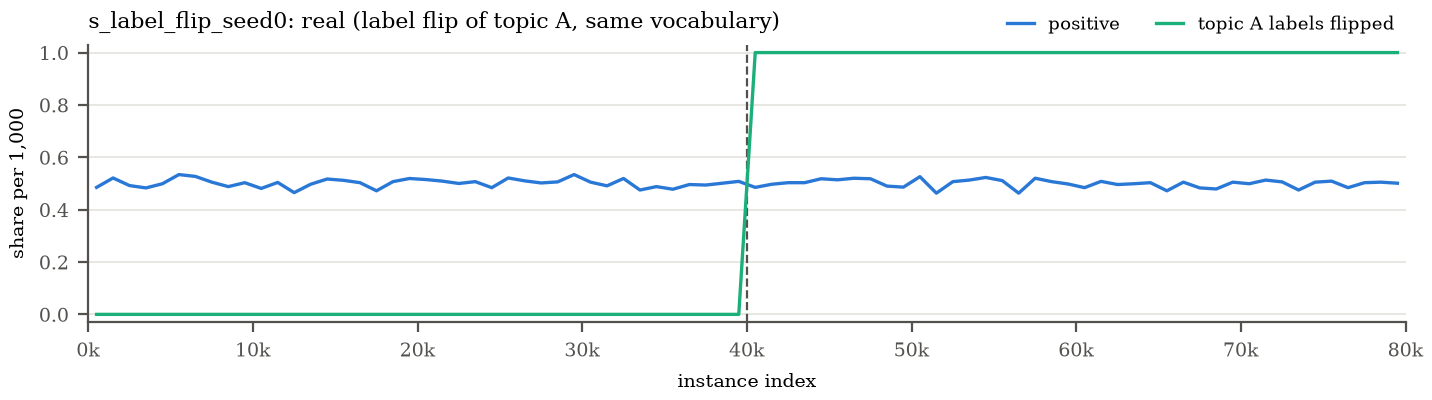
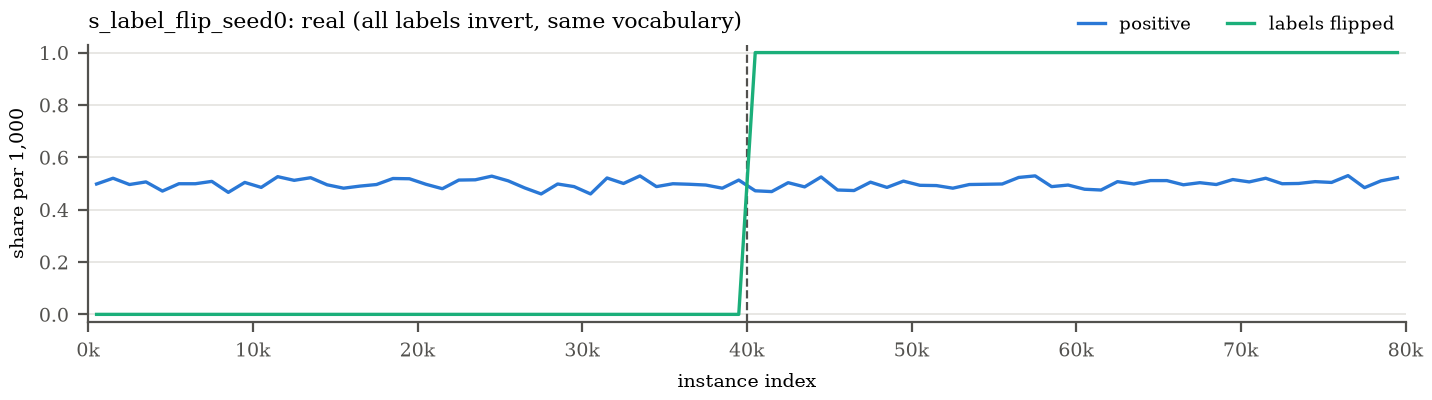
Plot global label flip and topic-flip scenario

Changed region(s): [[0.0615, 0.42, 0.9832, 0.48], [0.2458, 0.03, 0.5531, 0.09], [0.7067, 0.03, 0.8911, 0.09]]

diff --git a/analysis/plot_streams.py b/analysis/plot_streams.py
@@ -24,7 +24,8 @@ from streams import PROCESSED, SCENARIOS  # noqa: E402
 FIG_DIR = ROOT / "analysis" / "figures"
 POS, TOPIC_B, FLIPPED = "#2a78d6", "#eb6834", "#1baf7a"  # categorical slots 1-3
 MUTED, GRID, SHADE = "#52514e", "#e4e3df", "#f0efec"
-SCENARIO_NAMES = ["s_sudden", "s_gradual", "s_recurring", "s_label_flip", "s_prior_shift"]
+SCENARIO_NAMES = ["s_sudden", "s_gradual", "s_recurring", "s_label_flip", "s_prior_shift",
+                  "s_label_flip_topic"]
 
 
 def windowed(values: np.ndarray, window: int) -> tuple[np.ndarray, np.ndarray]:
@@ -46,9 +47,12 @@ def draw(ax, df: pd.DataFrame, meta: dict) -> None:
     flipped = (df["label"] != df["orig_label"]).to_numpy() if "orig_label" in df else None
     if flipped is not None and flipped.any():
         x, flip_share = windowed(flipped, window)
-        _, a_share = windowed((df["topic"] == "A").to_numpy(), window)
-        ax.plot(x, flip_share / np.maximum(a_share, 1e-9), color=FLIPPED, linewidth=1.2,
-                label="topic A labels flipped")
+        label = "labels flipped"
+        if (df["topic"] == "A").any():  # topic-only flip: show the share within topic A
+            _, a_share = windowed((df["topic"] == "A").to_numpy(), window)
+            flip_share = flip_share / np.maximum(a_share, 1e-9)
+            label = "topic A labels flipped"
+        ax.plot(x, flip_share, color=FLIPPED, linewidth=1.2, label=label)
 
     ax.set_title(f"{meta['stream']}: {meta['drift_type']}", loc="left", fontsize=8)
     ax.set_ylim(-0.03, 1.03)
